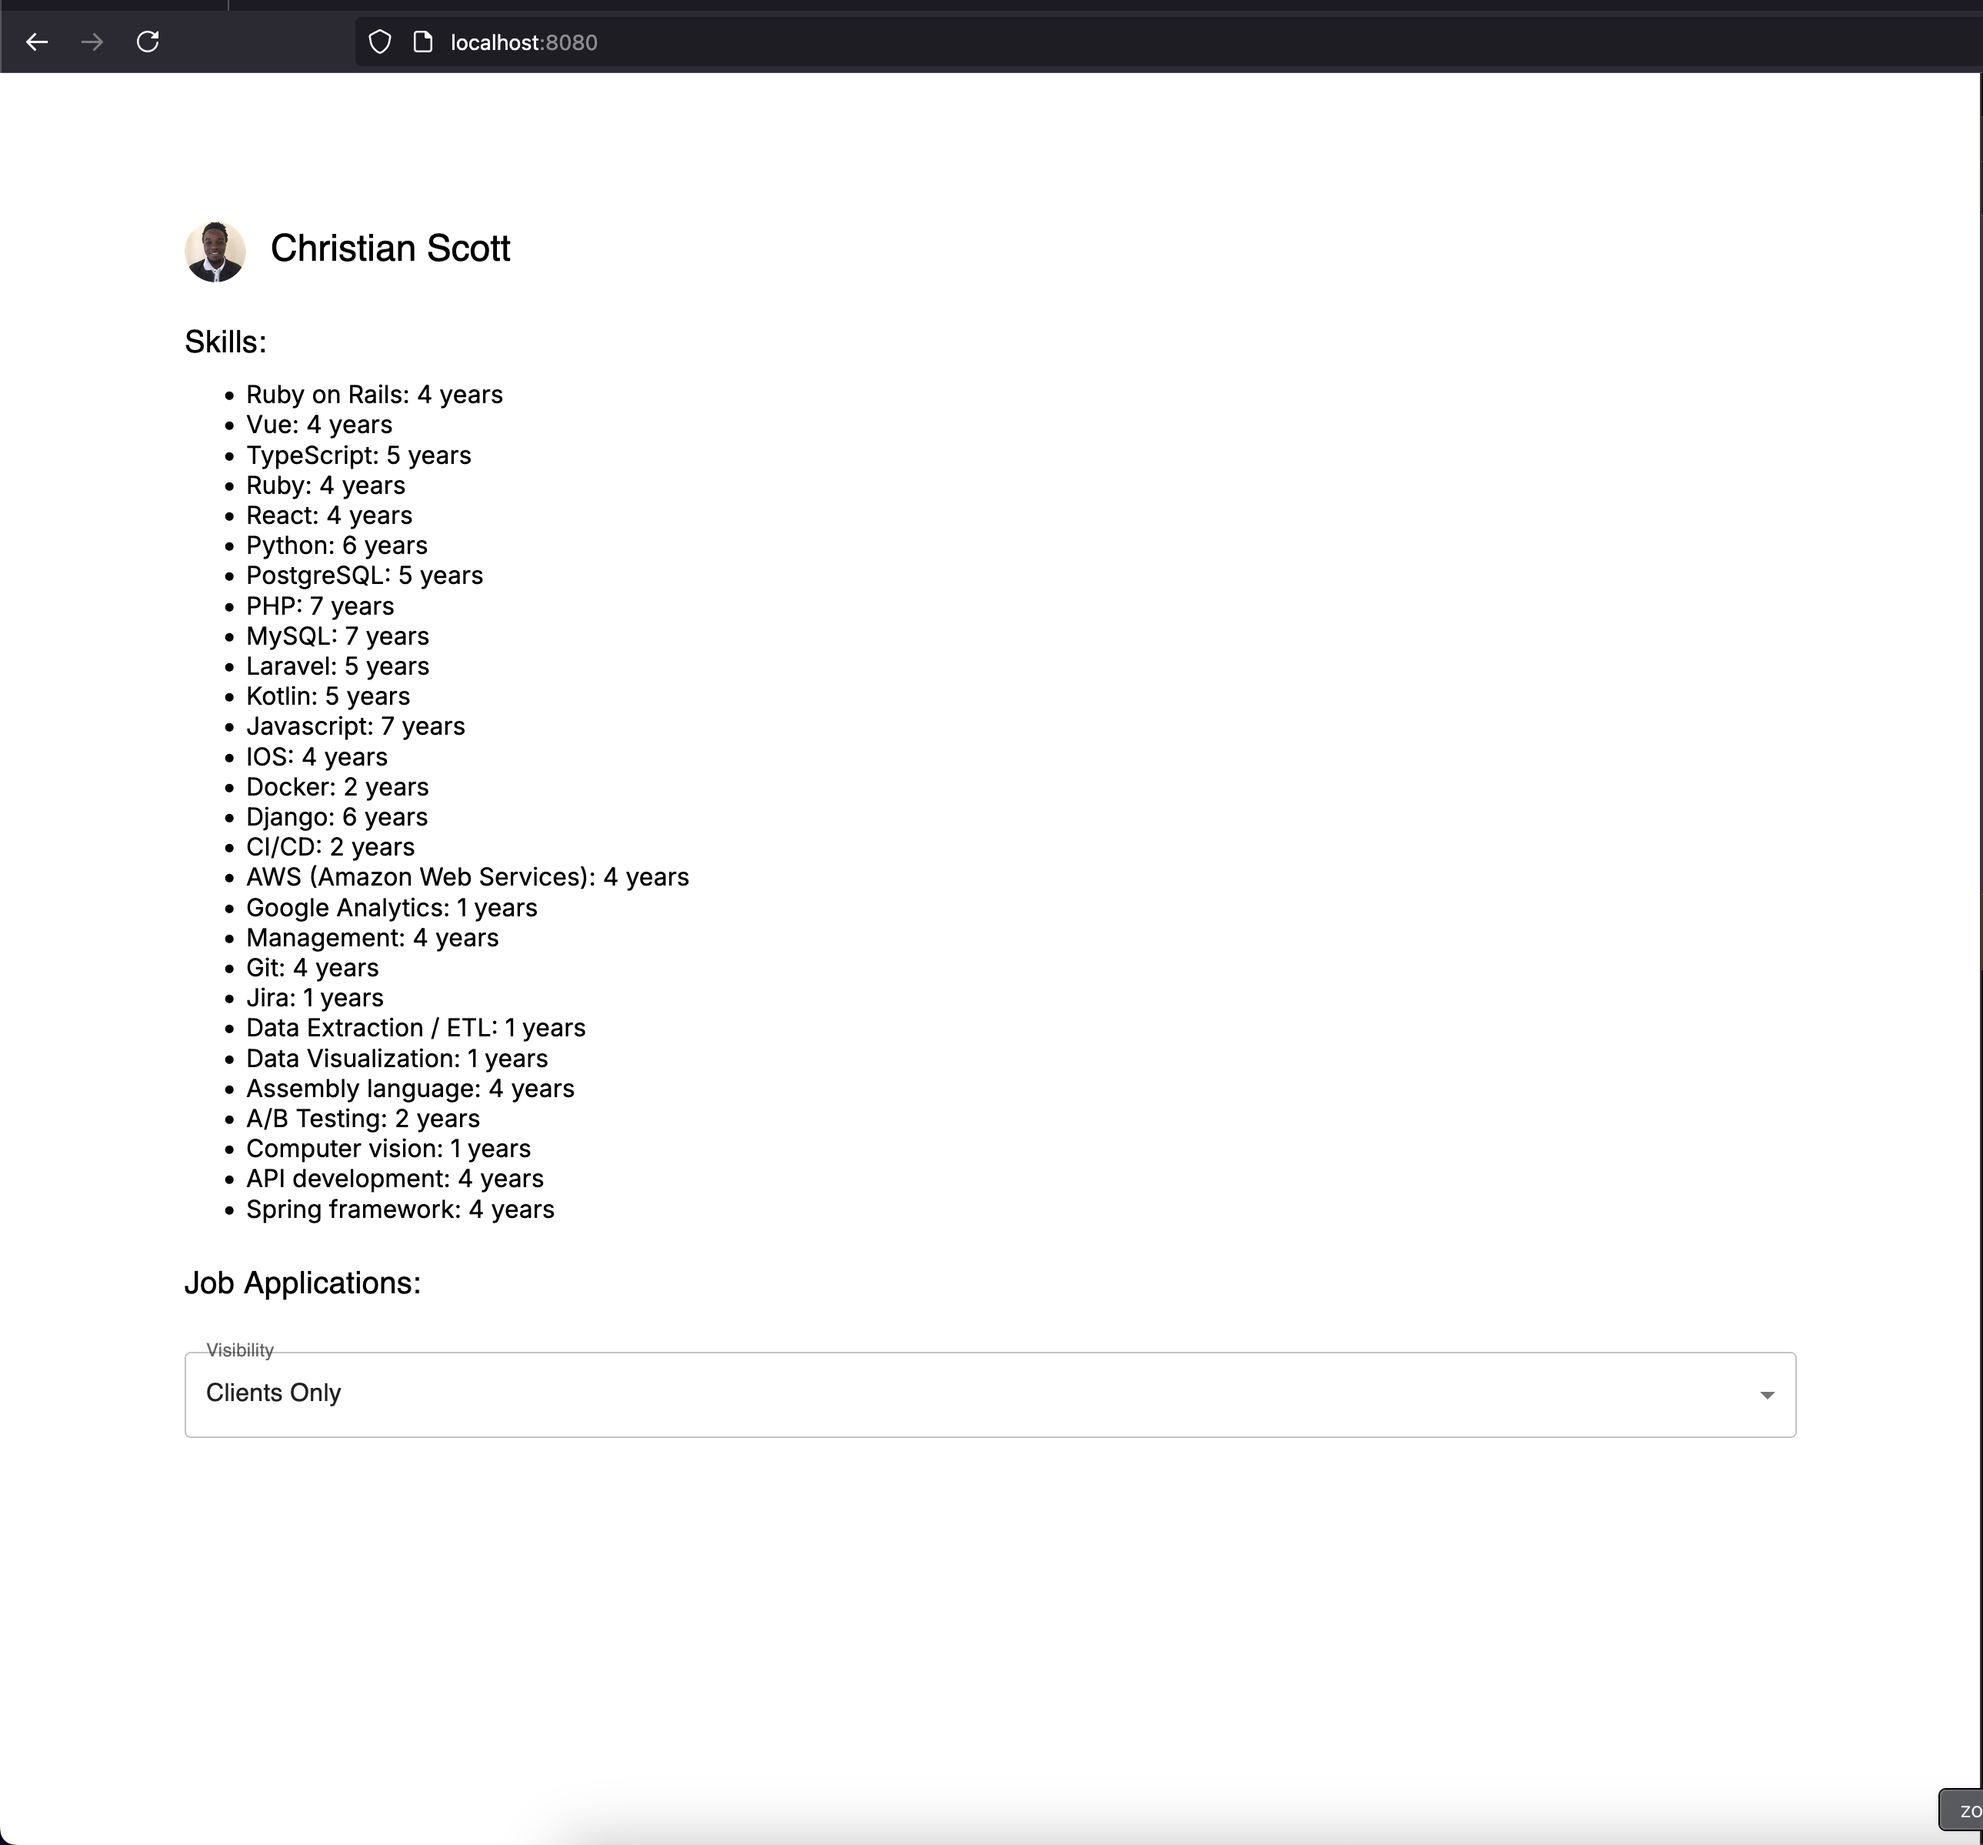
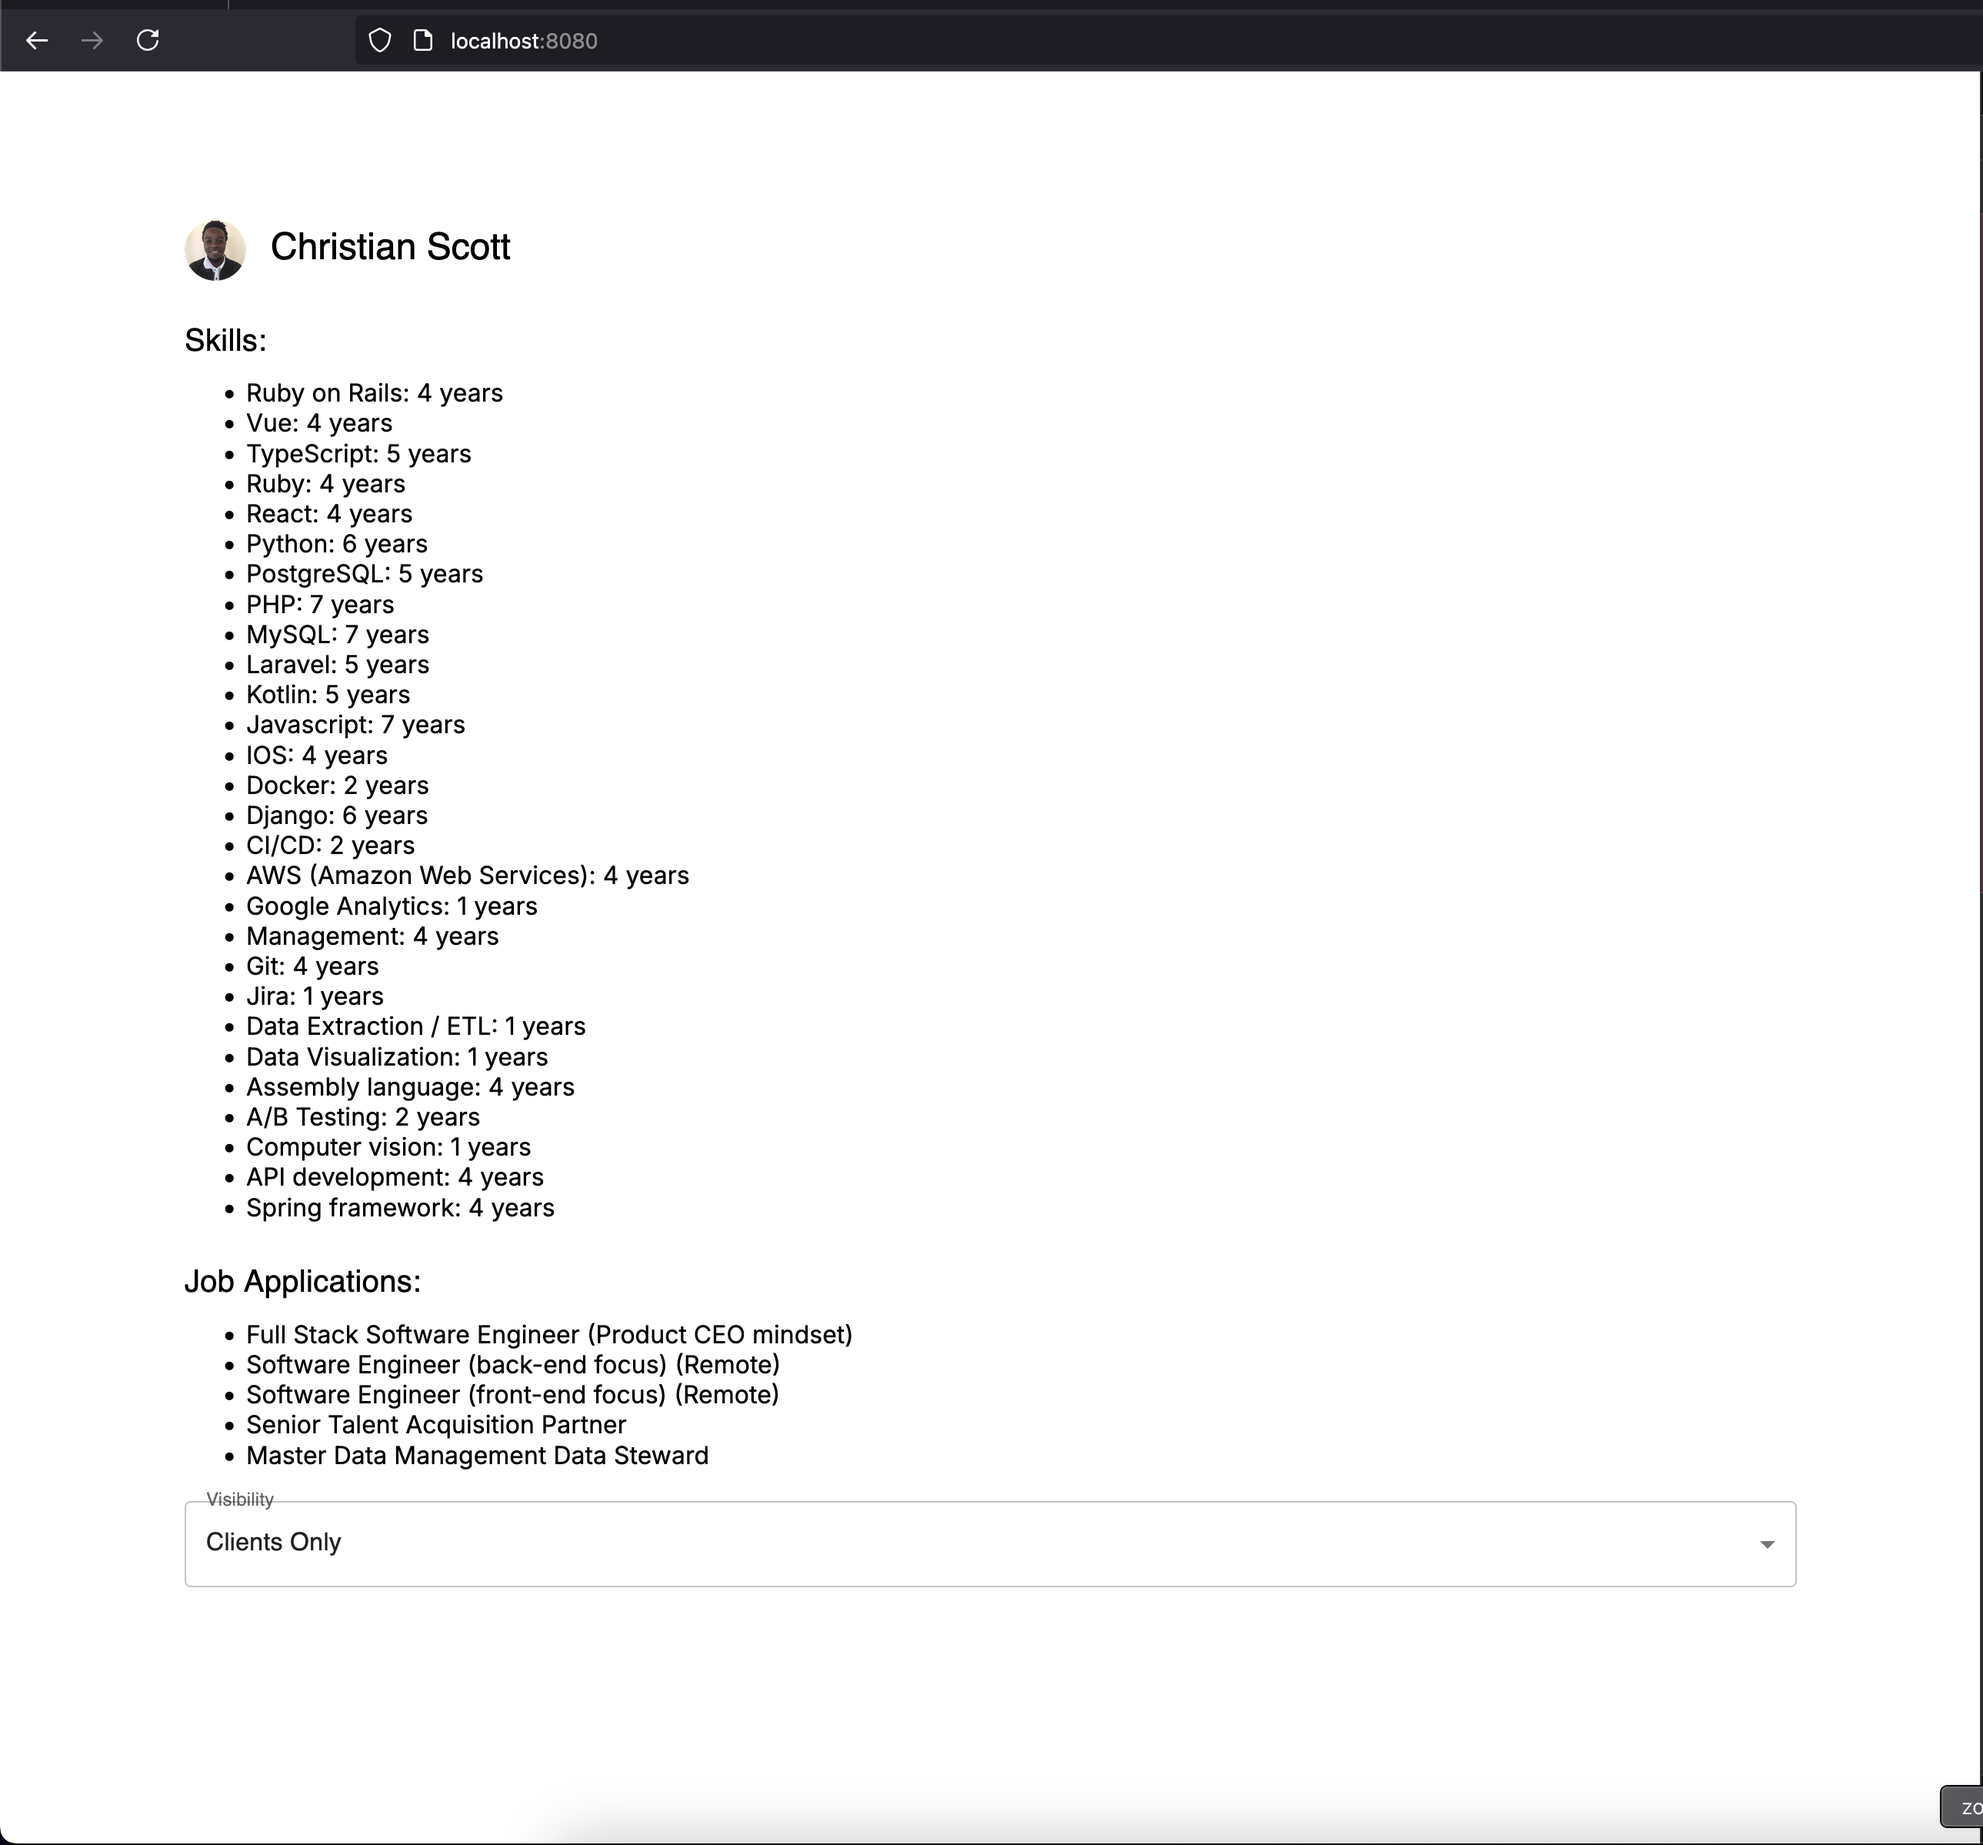
first commit

diff --git a/flexhire-engineering-test/frontend/src/app/login/index.tsx b/flexhire-engineering-test/frontend/src/app/login/index.tsx
@@ -4,12 +4,13 @@ import ProfilePage from '../profile';
 import { graphql, fetchQuery } from 'react-relay';
 import { initRelayEnvironment } from '../../RelayEnvironment';
 
-const LoginPage = () => {
+const loginPage = () => {
   const [apiKey, setApiKey] = useState('');
   const [userData, setUserData] = useState(null);
   const [error, setError] = useState(null);
+  const [jobApplications, setJobApplications] = useState([]);
   
-  const handleLogin = async () => {
+  const handlelogin = async () => {
     const query = graphql`
       query loginUserDataQuery {
         currentUser {
@@ -24,6 +25,24 @@ const LoginPage = () => {
           profile {
             visibility
           },
+          freelancerJobApplications(
+            first: 5
+          ) {
+            totalCount
+            edges {
+              node {
+                status
+                contract {
+                  id
+                }
+                job {
+                  title
+                  slug
+                  id
+                }
+              }
+            }
+          }
           jobApplications {
             nodes {
               job {
@@ -59,7 +78,7 @@ const LoginPage = () => {
       ) : (
       <Container maxWidth="sm">
         <Typography variant="h4" gutterBottom>
-          Login with API Key
+          login with API Key
         </Typography>
         <TextField
           label="API Key"
@@ -68,8 +87,8 @@ const LoginPage = () => {
           value={apiKey}
           onChange={(e) => setApiKey(e.target.value)}
         />
-        <Button variant="contained" color="primary" fullWidth onClick={handleLogin} style={{ marginTop: '20px' }}>
-          Login
+        <Button variant="contained" color="primary" fullWidth onClick={handlelogin} style={{ marginTop: '20px' }}>
+          login
         </Button>
       </Container>
     )}
@@ -77,4 +96,4 @@ const LoginPage = () => {
   );
 };
 
-export default LoginPage;
+export default loginPage;

diff --git a/flexhire-engineering-test/frontend/src/app/profile/index.tsx b/flexhire-engineering-test/frontend/src/app/profile/index.tsx
@@ -63,9 +63,9 @@ const ProfilePage: React.FC<ProfilePageProps> = ({ userData, apiKey }) => {
         ))}
       </ul>
       <Typography variant="h6" sx={{mt: 3}} gutterBottom>Job Applications:</Typography>
-      <ul>
-        {userData.jobApplications.nodes.map((job: any, index: number) => (
-          <li key={index}>{job.title}</li>
+      <ul style={{ marginLeft: '40px' }}>
+        {userData.freelancerJobApplications.edges.map((job: any, index: number) => (
+          <li key={index}>{job.node.job.title}</li>
         ))}
       </ul>
       <FormControl fullWidth style={{ marginTop: '20px' }}>
